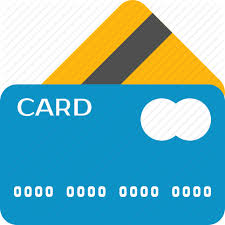
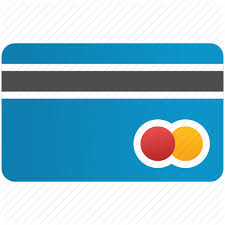
payment suite

diff --git a/src/components/Invoices/PaymentMethod.js b/src/components/Invoices/PaymentMethod.js
@@ -9,7 +9,7 @@ class PaymentMethod extends React.Component {
   componentWillMount () {
     this.resetComponent()
   }
-  resetComponent = () => this.setState({ paymentDetails: [], disabled: false, transacDate: (new Date()).toLocaleDateString() })
+  resetComponent = () => this.setState({ amountTotal: this.props.amount, paymentDetails: [], disabled: false, transacDate: (new Date()).toLocaleDateString() })
   _handlePaymentType = (e, { name, value }) => this.setState({ paymentType: value, paymentsMode: [{ key: 1, type: value }], disabled: false })
   _handlebank = (e, { name, value }) => this.setState({ selectedBank: value })
   // _handleChange = (e, { name, value }) => {
@@ -29,7 +29,9 @@ class PaymentMethod extends React.Component {
   _addPaiement = () => {
     // add item to list
     var paymentDetail = { amount: this.state.amount, paymentType: this.state.paymentType, transacNumber: this.state.transacNumber, date: this.state.transacDate }
-    this.setState({ paymentType: '', paymentDetails: [...this.state.paymentDetails, paymentDetail] })
+    this.setState({ paymentType: '',
+      amountTotal: parseFloat(this.state.amountTotal) - parseFloat(this.state.amount),
+      paymentDetails: [...this.state.paymentDetails, paymentDetail] })
 
     // Calcule de montant qui reste à payer
     // let totalHT = parseFloat(this.state.totalAmountHT) - parseFloat(props.total)
@@ -56,12 +58,11 @@ class PaymentMethod extends React.Component {
             <Form.Input disabled={ disabled } label='Titulaire du compte bancaire'
               placeholder='Titulaire du compte bancaire...'
               onChange={ this._handleInputChange }
-              name='CompteName' />
+              name='compteName' />
             <Form.Input name='amountTotal'
               disabled={ disabled }
-              onChange={ this._handleInputChange }
-              label='Montant total de la transaction' placeholder='Montant...'
-              defaultValue={ paymentNumber ? this.state.paymentNumber : '1' }
+              label='Montant reste à payer' placeholder='Montant...'
+              value={ this.state.amountTotal || '1' }
             />
             <Header dividing as='h4'>List de Paiements</Header>
             <Segment.Group key='id' size='tiny'>
@@ -82,7 +83,7 @@ class PaymentMethod extends React.Component {
                         <List.Item>
                           <List.Content>
                             <List.Header>Numéro</List.Header>
-                            { payment.amount ? payment.amount : 'sans numéro'}
+                            { payment.transacNumber ? payment.transacNumber : 'sans numéro'}
                           </List.Content>
                         </List.Item>
                         <List.Item>
@@ -122,7 +123,7 @@ class PaymentMethod extends React.Component {
                       : <Segment>
                         <List key='id' horizontal>
                           <List.Item>
-                            <Image avatar src={ require('STYLES/images/cash.png') } />
+                            <Image avatar src={ require('STYLES/images/bank_card.jpg') } />
                           </List.Item>
                           <List.Item>
                             <List.Content>
@@ -133,7 +134,7 @@ class PaymentMethod extends React.Component {
                           <List.Item>
                             <List.Content>
                               <List.Header>Numéro</List.Header>
-                              { payment.amount ? payment.amount : 'sans numéro'}
+                              { payment.transacNumber ? payment.transacNumber : 'sans numéro'}
                             </List.Content>
                           </List.Item>
                           <List.Item>
@@ -151,7 +152,7 @@ class PaymentMethod extends React.Component {
             </Segment.Group>
             <div>
               <Divider hidden />
-              <Header dividing as='h4'>Premier Paiement</Header>
+              <Header dividing as='h4'>Paiement</Header>
               <Form.Group widths='equal'>
                 <Form.Field>
                   <Form.Dropdown fluid search selection required
@@ -159,7 +160,7 @@ class PaymentMethod extends React.Component {
                     label='Mode de paiement'
                     placeholder='Choisir les modes de paiement'
                     onChange={ this._handlePaymentType }
-                    value={ payment && payment.paymentType }
+                    value={ this.state.paymentType }
                     options={ PaiementMode } />
                 </Form.Field>
               </Form.Group>

diff --git a/src/components/Utils/Utils.js b/src/components/Utils/Utils.js
@@ -56,9 +56,9 @@ export const BankOptions = [
 ]
 
 export const PaiementMode = [
-  { key: 'ck', text: 'Chèques', value: 'CHECK', image: { avatar: true, src: require('STYLES/images/cheque.jpg') } },
-  { key: 'cv', text: 'Cartes ou Virement', value: 'BANK_CARD', image: { avatar: true, src: require('STYLES/images/transac.png') } },
-  { key: 'e', text: 'Espèces', value: 'CASH', image: { avatar: true, src: require('STYLES/images/especes.png') } },
+  { key: 'ck', text: 'Chèques', value: 'CHECK', image: { avatar: true, src: require('STYLES/images/check.png') } },
+  { key: 'cv', text: 'Cartes ou Virement', value: 'BANK_CARD', image: { avatar: true, src: require('STYLES/images/bank_card.jpg') } },
+  { key: 'e', text: 'Espèces', value: 'CASH', image: { avatar: true, src: require('STYLES/images/cash.png') } },
 ]
 
 export const ConstPaiementMode = {

diff --git a/src/axios.init.js b/src/axios.init.js
@@ -1,6 +1,6 @@
 import axios from 'axios'
 
-axios.defaults.baseURL = 'http://ec2-52-15-124-186.us-east-2.compute.amazonaws.com:8080'
+axios.defaults.baseURL = 'http://localhost:8080'
 axios.defaults.headers.common['Access-Control-Allow-Methods'] = 'GET, POST, PUT, DELETE, OPTIONS' // for all requests
 axios.defaults.headers.common['Access-Control-Allow-Origin'] = '*' // for all requests
 axios.defaults.crossdomain = true

diff --git a/src/components/Common/TableInternal.js b/src/components/Common/TableInternal.js
@@ -243,7 +243,7 @@ render = () => {
                             <Button
                               icon='edit'
                               floated='right' />
-                            <PaymentMethod />
+                            <PaymentMethod amount={ result.amount } />
                           </Table.Cell>
                         </Table.Row>
               )) : <Table.Row>
